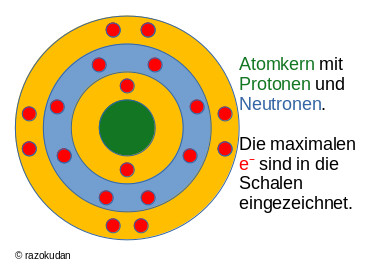
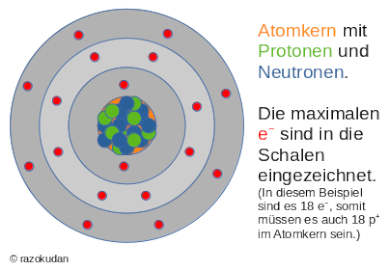
Add files via upload

diff --git a/fluessigechemie.html b/fluessigechemie.html
@@ -1,0 +1,103 @@
+<!DOCTYPE html>
+<html lang="de">
+
+<head>
+<meta charset="utf-8">
+<meta name="format-detection" content="telephone=no">
+<title>Flüssige Chemie - razokudan</title>
+<link rel="icon" type="image/ico" href="logo.ico">
+<style>
+@import "razokudan.css";
+
+</style>
+
+
+</head>
+<body>
+<div class="header"><a href="index.html"><img class="banner" src="icon.jpg" alt="razokudan" width="174" height="92"></a></div>
+
+<main>
+<a href="chemie.html"><span class="arrow">＜ー</span></a>
+<article>
+<h1 id="o">Flüssige Chemie</h1>
+
+<p>Die Chemie des Wasser, dem pH-Wert und deren Säuren und Basen, sowie die Salze die daraus resultieren, möchte ich gerne kompakt als "flüssige Chemie" zusammenführen.</p>
+<p>
+<ul>
+<li><a href="#w">Wasser</a></li>
+<li><a href="#p">pH-Wert</a></li>
+<li><a href="#l">Säuren</a></li>
+<li><a href="#b">Basen</a></li>
+<li><a href="#s">Salze</a></li>
+</ul>
+</p>
+
+<h2 id="w"><a href="#o">Wasser</a></h2>
+
+<p>Wasser (H<sub>2</sub>O) ist ein Dipol, da die beiden H zum O einen Winkel untereinander von nur 104,45° bilden.</p>
+<p>Des Weiteren ist Wasser ein <em><mark>Ampholyt</mark></em> da stets in geringen Anteilen <em><mark>Autoprotolyse</mark></em> stattfindet. Das bedeutet, dass von manchen H<sub>2</sub>O das H<sup>+</sup>-Proton von anderen H<sub>2</sub>O zu H<sub>3</sub>O<sup>+</sup> angezogen wird. <em><mark>Amphoteres</mark></em> Verhalten bedeutet also <em><mark>Protonenakzeptor und Protonendonator</mark></em> gleichzeitig zu sein. Denn da dem H<sup>+</sup>-Ion das einzige e<sup>&ndash;</sup> fehlt, das Proton alleine übrig ist, ist es ja ein Proton.</p>
+
+<blockquote class="bsp"><p>H<sub>2</sub>O &lt;=&gt; H<sub>3</sub>O<sup>+</sup>+ HO<sup>&ndash;</sup></p></blockquote>
+
+<p>Wasser hat wegen gleichen Anteilen von H<sub>3</sub>O<sup>+</sup> (ausgesprochen als H<sub>3</sub>O<sup>+</sup>-, Oxonium-, Hydroxonium-, oder Hydroniumion, nach IUPAC Oxidanium) und HO<sup>&ndash;</sup> (Hydroxidion) den <em><mark>pH-Wert 7</mark></em>, ist damit <em><mark>neutral</mark></em>.</p>
+
+<h2 id="p"><a href="#o">pH-Wert</a></h2>
+
+<p>Der <dfn>pH-Wert</dfn> beschreibt das <em><mark>Verhältnis von Oxonium- und Hydroxidionen</mark></em> in einer wässrigen Lösung. Das <em><mark>Produkt</mark></em> bleibt dabei immer <em><mark>konstant</mark></em>.</p>
+
+<blockquote Class="bsp"><p>pH&lt;7 Sauer (enthält mehr H<sup>+</sup>-Ionen) <br>pH=7 neutral<br>pH&gt;7 basisch ((alkalisch) enthält mehr OH<sup>&ndash;</sup>-Ionen)</p>  
+</blockquote>
+
+<p>
+Jeder Schritt, jede ganze Zahl (-1 bis 15), auf der Skala bedeutet zehnmal weniger/mehr H<sup>+</sup>-/OH<sup>&ndash;</sup>-Ionen. <em><mark>Die Standardskala hat Werte von 1 bis 14</mark></em>. Bis -1 ist Supersauer, bis 15 ist Superbasisch.</p>
+
+
+
+
+
+<h2 id="l"><a href="#o">Säuren</a></h2>
+
+<p><dfn>Säuren</dfn> sind alle <em><mark>nichtmetallischen Ionenverbindungen</mark></em> die H enthalten und wenn in Wasser zur sauren Lösung dissoziiert, diesen als <em><mark>Proton</mark></em> abgeben können. Säuren sind also <em><mark>Protonendonatoren</mark></em>. Es verbindet sich mit H<sub>2</sub>O zu <em><mark>H<sub>3</sub>O<sup>+</sup></mark></em>. Was von der Säure übrig bleibt ist das <em><mark>Säurerestanion</mark></em> welches sich mit Metallkationen zu <em><mark>Salz</mark></em> verbinden kann.</p> 
+
+
+
+
+<blockquote class="bsp"><p>S + O<sub>2</sub> &ndash;&gt; SO<sub>2</sub>, Schwefeldioxid (Nichtmetalloxid)<br>SO<sub>2</sub> + H<sub>2</sub>O &ndash;&gt; H<sub>2</sub>SO<sub>3</sub>, schweflige Säure, wenn in Wasser gelöst,  <br>&ndash;&gt; 2 H<sub>2</sub>O + H<sub>2</sub>SO<sub>3</sub> &ndash;&gt; 2 H<sub>3</sub>O<sup>+</sup> + SO<sub>3</sub><sup>2-</sup>, Oxoniumionen und Säurerestion.
+  </p></blockquote>
+  
+  <p>In der wässrigen Lösung sind also <em><mark>nicht mehr zu gleichen Anteilen</mark></em> H<sub>3</sub>O<sup>+</sup> und HO<sup>&ndash;</sup> enthalten. Stattdessen jetzt ja mehr H<sub>3</sub>O<sup>+</sup>-Ionen. Das Verhältnis, also der <em><mark>pH-Wert&lt;7</mark></em>. Die Lösung ist also <em><mark>sauer</mark></em>.</p>
+  
+  <p>"Säure" kommt vom Sauerstoff (O), es wurden aber schon Säuren wie Blau- und Salzsäure (HCN, HCl) gefunden an denen kein Sauerstoff beteiligt ist.</p>
+  
+
+<blockquote class="bsp"><p class="bsp">Wichtige Säuren</p>
+
+<table>
+<tr><td>H<sub>2</sub>SO<sub>4</sub></td><td>Schwefelsäure</td></tr>
+<tr><td>H<sub>2</sub>SO<sub>3</sub></td><td>schweflige Säure</td></tr>
+<tr><td>HNO<sub>3</sub></td><td>Salpetersäure</td></tr>
+<tr><td>HNO<sub>2</sub></td><td>salpetrige Säure</td></tr>
+<tr><td>H<sub>3</sub>PO<sub>4</sub></td><td>Phosphorsäure</td></tr>
+<tr><td>H<sub>3</sub>CO<sub>3</sub></td><td rowspan="2">Kohlensäure</td></tr>
+<tr><td>H<sub>2</sub>CO<sub>3</sub></td>
+<tr><td>HCl</td><td>Salzsäure</td></tr>
+<tr><td>HCN</td><td>Blausäure</td></tr>
+</table>
+</blockquote>
+
+<p>Je höher der Anteil an Säuremolekülen in der Lösung, je besser diese dissoziiert werden, desto stärker die Säure.</p>
+
+<h2 id="b"><a href="#o">Basen</a></h2>
+
+<p><dfn>Basen</dfn> sind alle Moleküle welche Protonen annehmen können. Sie sind also <em><mark>Protonenakzeptoren</mark></em>.</p>
+<p>Des Weiteren werden Metallhydroxiden in wässriger Lösung die HO<sup>&ndash;</sup> (Hydroxidionen) von den H<sup>+</sup> (Protonen) des Wassers zu H<sub>2</sub>O umgewandelt. Die Metallionen können sich mit Säurerestionen zu Salz verbinden.</p>
+
+
+<h2 id="s"><a href="#o">Salze</a></h2>
+
+</article>
+<a href="chemie.html"><span class="arrow">＜ー</span></a>
+</main>
+<footer>&copy; razokudan 2026</footer>
+</body>
+</html>

diff --git a/atomaufbau.html b/atomaufbau.html
@@ -33,13 +33,13 @@
   <h1>Atomaufbau</h1>
   <p>Nach dem Modell von Niels Bohr bestehen <dfn>Atome</dfn> aus einem <em><i>positiv</i></em> geladenen, winzigen, Kern um den sich in der Hülle, in mehreren Schichten, "Schalen", <em><i>negativ</i></em> geladene Partikel bewegen. Daher heißt das Modell auch <em>"Schalenmodell"</em>. Die <em><b>positiven</b></em> Partikel sind <em><b>Protonen</b></em>, die <em><b>negativen</b></em>, <em><b>Elektronen</b></em> . Weiter sind im Kern noch <em><b>neutrale Neutronen</b></em>.</p>
   <blockquote class="bsp"><p>(p<sup>+</sup>, n<sup>0</sup>, e<sup>-</sup>)</p></blockquote>
-  <p>Die <em><b>p<sup>+</sup></b> und <b>n<sup>0</sup></b></em> sind ungefähr gleich "schwer". Aber so leicht, dass die Gewichtseinheit <dfn>u ("<b>u</b>nified atomic mass unit")</dfn> eingefüht wurde. Ein p<sup>+</sup>/n<sup>0</sup> ist ungefähr 1u "schwer". e<sup>-</sup> wiegen dagegen 0,0005u, also praktisch garnichts.</p>
+  <p>Die <em><b>p<sup>+</sup></b> und <b>n<sup>0</sup></b></em> sind ungefähr gleich "schwer". Aber so leicht, dass die Gewichtseinheit <dfn>u ("<b>u</b>nified atomic mass unit")</dfn> eingefüht wurde. Ein p<sup>+</sup>/n<sup>0</sup> ist ungefähr 1u "schwer". e<sup>-</sup> wiegen dagegen 0,0005u, also praktisch garnichts, denn sie sind gegen die p<sup>+</sup>/n<sup>0</sup> winzig klein.</p>
     
     <figure>   
 <picture>
   <source type="image/avif" srcset="atomicstructure.avif">
   <source type="image/webp" srcset="atomicstructure.webp">
-  <img src="atomicstructure.jpg" alt="Atomaufbau" width="391" height="273">
+  <img src="atomicstructure.jpg" alt="Atomaufbau" width="390" height="272">
 </picture>
 <!--<figcaption><p><small>Welches Element ist das?<details><summary>Lösung</summary>Es ist Argon, da es 18 e<sup>-</sup>, und somit auch 18 Protonen, hat. Es ist an 18. Stelle im Periodensystem.</details></small></p></figcaption>-->
 </figure>
@@ -50,7 +50,7 @@
 <p><mark>In der ersten Schale, die um den Kern, die Kleinste, haben nur zwei e<sup>-</sup> platz</mark>. Kommt ein drittes hinzu, muss es eine "neue" Schale belegen. In der zweiten und jeder folgenden haben immer bis zu 8 e<sup>-</sup> platz. Die e<sup>-</sup> der äußersten Schale nennt man <em><dfn>Valenzelektronen</dfn></em>.</p>
 
 
-<blockquote class="bsp"><p>Ob metallisch, gasförmig, matt oder glänzend, die Eigenschaften der Elemente sind <em><i>alleine</i></em> von der Anzahl der e<sup>-</sup>/p<sup>+</sup> abhängig!</p></blockquote>
+<blockquote class="bsp"><p>Ob metallisch, gasförmig, matt oder glänzend, die Eigenschaften der Elemente sind <em><i>ausschließlich</i></em> von der Anzahl der e<sup>-</sup>/p<sup>+</sup> abhängig!</p></blockquote>
 
 <p>Im <dfn>Periodensystem</dfn> sind die Elemente nach Anzahl der Valenz-e<sup>-</sup> sortiert. In jeder Spalte kommt ein weiteres e<sup>-</sup> hinzu, in jeder Zeile eine weitere Schale. Da Elemente mit gleicher Anzahl Valenz-e<sup>-</sup> ähnliche Eigenschaften ( -&gt; Hauptgruppen) haben, kehren diese bei solcher systematischen Anordnung regelmäßig (periodisch -&gt; Periodennummer) wieder.</p>
 

diff --git a/atombindungen.html b/atombindungen.html
@@ -52,7 +52,10 @@
 	<h2 id="mb"><a href="#o">Metallische Bindung</a></h2>
 	
 		<p>Die <dfn>metallische Bindung</dfn> kommt <em><mark>nur in Metallen und deren Legierungen</mark></em> vor. Die Atome bilden ein Metallgitter in denen sich die Valenz-e<sup>-</sup> frei bewegen können. Die e<sup>-</sup> sind <em><mark>delokalisiert</mark></em>.</p>
-		<p>Das bewirkt die makroskopisch typischen Eigenschaften: <ul><li> elektrische Leitfähigkeit</li> <li>Glanz</li> <li>Duktilität</li></ul><p> <em><mark>Nur bei der metallischen Bindung wird die elektrische Leitfähigkeit bei Temperaturerhöhung schlechter.</mark></em></p>
+		<p>Das bewirkt die makroskopisch typischen Eigenschaften: <ul><li> elektrische Leitfähigkeit</li> <li>Glanz</li> <li>Duktilität.</li></ul>
+		<blockquote class="bsp"><p> Nur bei der metallischen Bindung wird die <em><mark>elektrische Leitfähigkeit bei Temperaturerhöhung schlechter</mark></em>.</p>
+		<p>Nur <em><mark>Eisen ist magnetisch</mark></em>!</p>
+		</blockquote>
 		
 	<h2 id="zk"><a href="#o">Zwischenmolekulare Kräfte</a></h2>
 	<p>Die <dfn>zwischenmolekularen Kräfte</dfn> sind keine chemischen Bindungen sondern nur <em><mark>elektrostatische Anziehungskräfte</mark></em> zwischen Molekülen.</p>
@@ -70,7 +73,7 @@
 		<h3 id="dk"><a href="#o">Dipol-Dipol Kräfte</a></h3>
 		
 			<p><dfn>Dipol-Dipol-Kräfte</dfn> entstehen in Molekülen in denen sich die <em><mark>Ladungen räumlich getrennt voneinander ballen</mark></em>.</p>
-			<p>Zum Beispiel ist H<sub>2</sub>O (Wasser) ein Dipol, da die H-Atome (positiv geladen) einen Winkel von 104,45° zueiander haben und sich somit zusammen auf einer Seite des O (negativ) befinden.</p>
+			<p>Zum Beispiel ist H<sub>2</sub>O (Wasser) ein Dipol, da die H-Atome (positiv geladen) einen Winkel von 104,45° zueinander haben und sich somit zusammen auf einer Seite des O (negativ) befinden.</p>
 			<p>Auch die <em><mark>Carbonylgruppe (-> C=O Bindung)</mark></em> ist ein Dipol.</p>
       <p>Dipol-Dipol Kräfte haben ungefähr eine Stärke von <em><mark>2-5% der kovalenten Bindung</mark></em>.</p>
       

diff --git a/chemie.html b/chemie.html
@@ -24,10 +24,7 @@
   <li><a href="isotope.html">Isotope</a></li>
   <li><a href="elektronegativitaet.html">Elektronegativität (EN)</a></li>
   <li><a href="atombindungen.html">Atombindungen</a></li>
-  <li><a href="wasser.html">Wasser H<sub>2</sub>O</a></li>
-  <li><a href="saeuren.html">Säuren</a></li>
-  <li><a href="salze.html">Salze</a></li>
-  <li><a href="phwert.html">Der pH-Wert</a></li>
+  <li><a href="fluessigechemie.html">Flüssige Chemie</a></li>
   </ul>
   <br>
 <p>Get help from my friend :) He is very helpful to me!</p>

diff --git a/razokudan.css b/razokudan.css
@@ -121,11 +121,12 @@ dfn, em {
 }
 
 table, th, td {
-      Border: 3px solid hsl(120 100% 20%);
-
+      border: 3px solid hsl(120 100% 20%);
+     
 }
 th {
       color: hsl(120 100% 10%);
+      
 }
 li {
       list-style-type: none;
@@ -177,14 +178,14 @@ blockquote {
       font-size: 80%;
       
 }
-
+/*
 .box {
       border: 3px solid hsl(120 100% 20%);
 }
 .box td {
       border: none;
 }
-
+*/
 .textlink {
       color: hsl(120 100% 10%);
       font-variant: small-caps;
